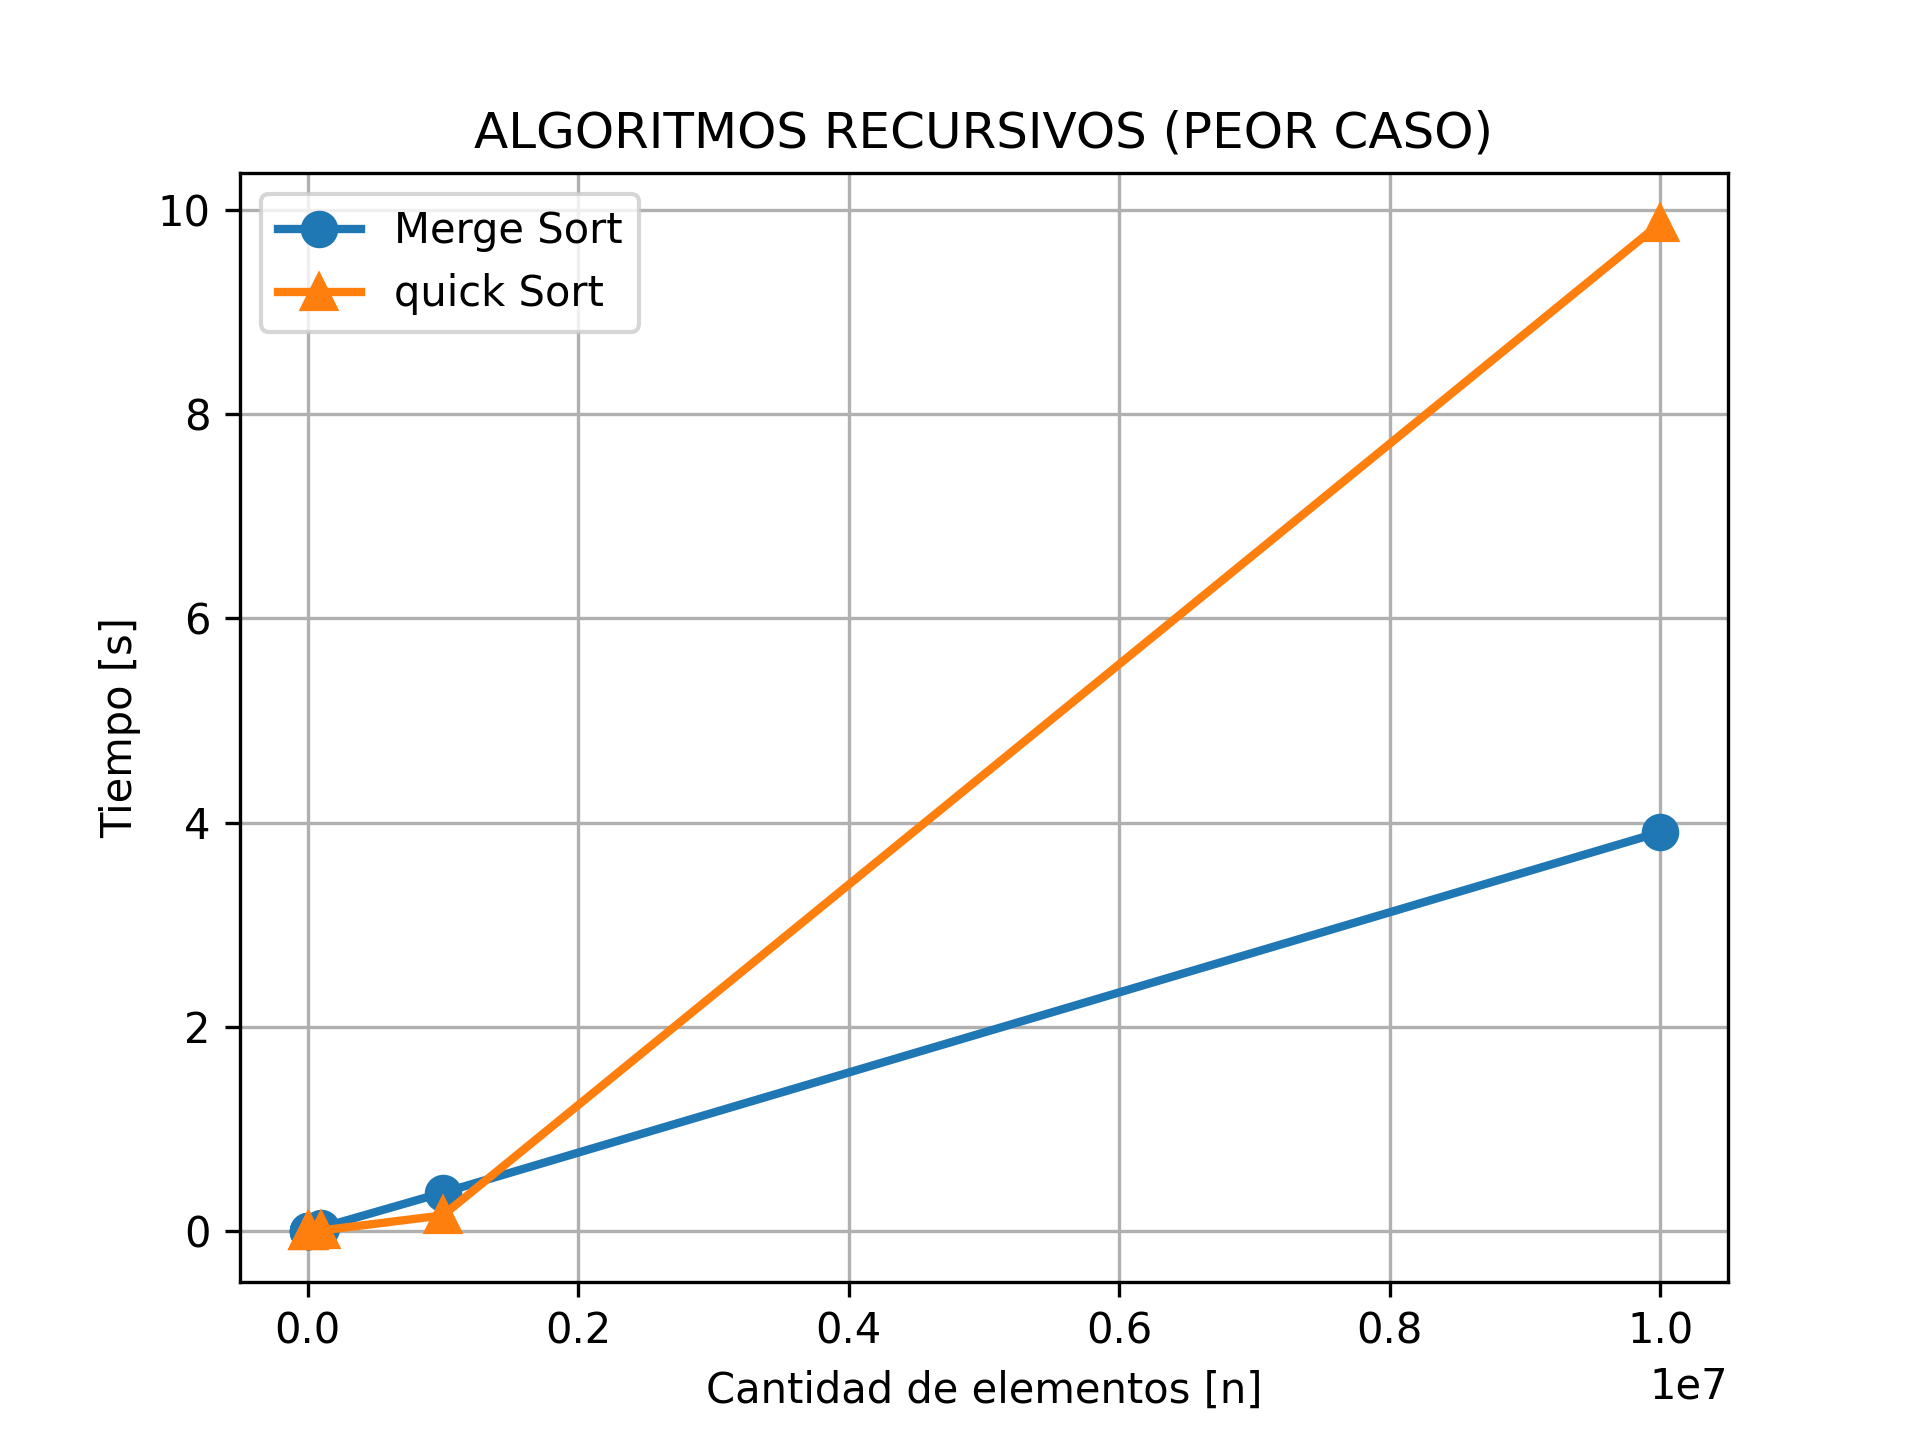
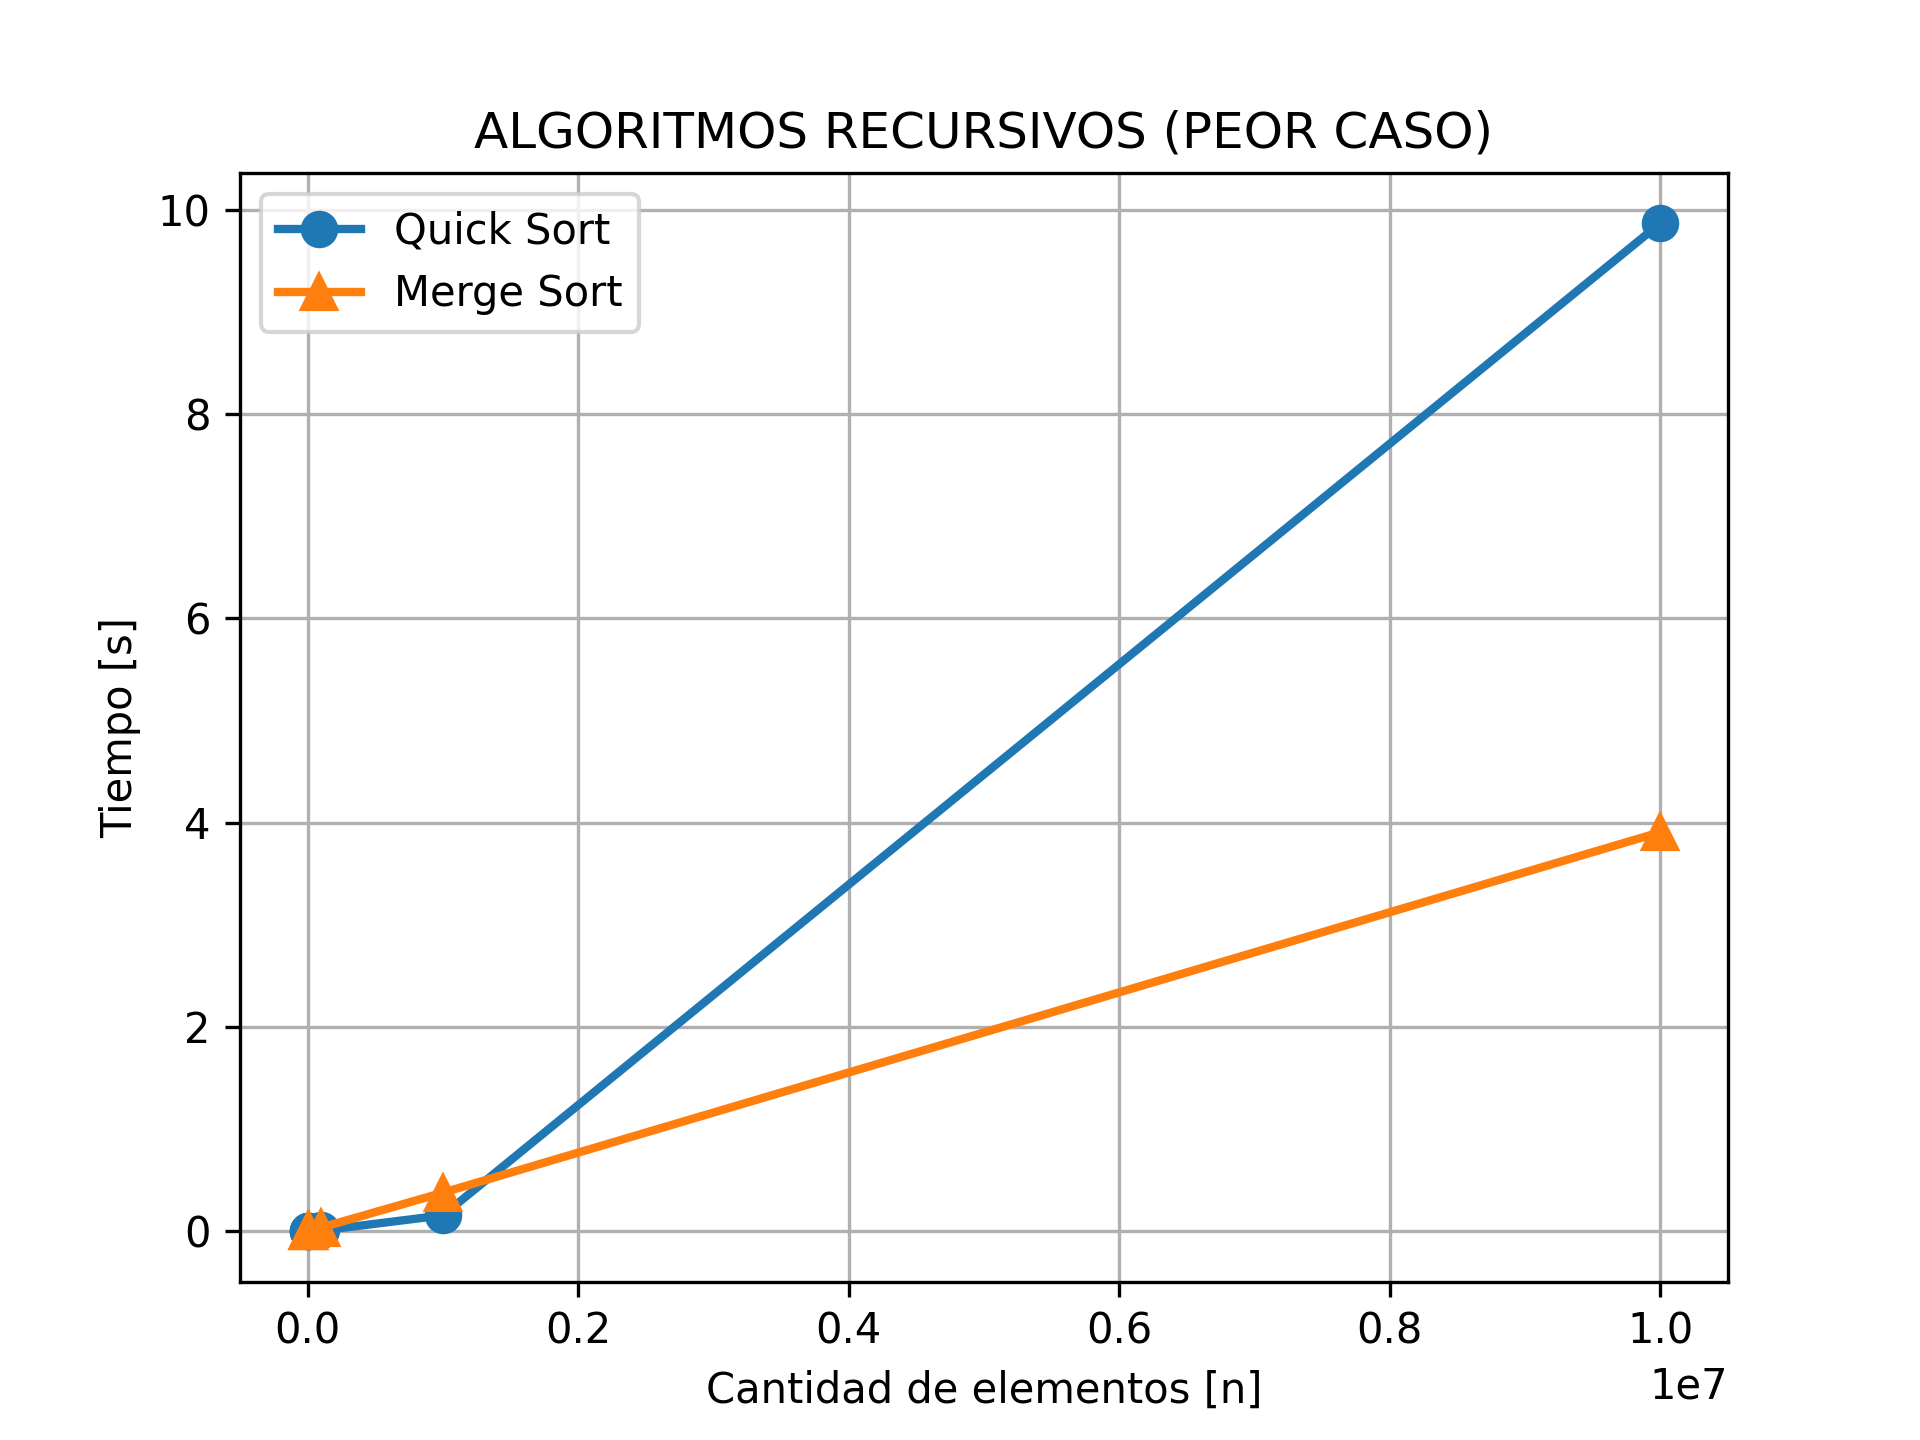
graficas final xd

diff --git a/PrimerParcial/Practica2/graficaComplejidades/graficar.py b/PrimerParcial/Practica2/graficaComplejidades/graficar.py
@@ -19,22 +19,22 @@ def guardar_grafica(ruta_guardado, nombre_archivo):
     print(f"Gráfica guardada en: {ruta_completa}")
 
 # Archivos txt con los datos
-quick = 'quick.txt' # merge
-# casoPromedio = 'casoPromedio.txt'
-merge = 'merge.txt' # quick
+peorCaso = 'peorCaso.txt' # mejorCaso
+casoPromedio = 'casoPromedio.txt'
+mejorCaso = 'mejorCaso.txt' # peorCaso
 
 # Leer los datos de los archivos
-x_peor, y_peor = leer_datos(quick)
-#x_promedio, y_promedio = leer_datos(casoPromedio)
-x_mejor, y_mejor = leer_datos(merge)
+x_peor, y_peor = leer_datos(peorCaso)
+x_promedio, y_promedio = leer_datos(casoPromedio)
+x_mejor, y_mejor = leer_datos(mejorCaso)
 
 # Graficar los datos con marcadores más visibles
 plt.plot(x_peor, y_peor, label='Quick Sort', marker='o', markersize=8, linestyle='-', linewidth=2)
-#plt.plot(x_promedio, y_promedio, label='Caso Promedio', marker='s', markersize=8, linestyle='-', linewidth=2)
-plt.plot(x_mejor, y_mejor, label='Merge Sort', marker='^', markersize=8, linestyle='-', linewidth=2)
+plt.plot(x_promedio, y_promedio, label='Caso Promedio', marker='s', markersize=8, linestyle='-', linewidth=2)
+plt.plot(x_mejor, y_mejor, label='mejorCaso Sort', marker='^', markersize=8, linestyle='-', linewidth=2)
 
 # Personalización de la gráfica
-plt.title('ALGORITMOS RECURSIVOS (CASO PROMEDIO)')
+plt.title('QUICK SORT')
 plt.xlabel('Cantidad de elementos [n]')
 plt.ylabel('Tiempo [s]')
 plt.legend()  # Mostrar leyendas
@@ -42,4 +42,4 @@ plt.grid(True)  # Mostrar la cuadrícula
 # plt.xscale('log')  # Escala logarítmica en el eje X si fuera necesario
 #vplt.show()
 
-guardar_grafica('graficas', "quick-merge-casopromedio")
+guardar_grafica('graficas', "quick-sort")
